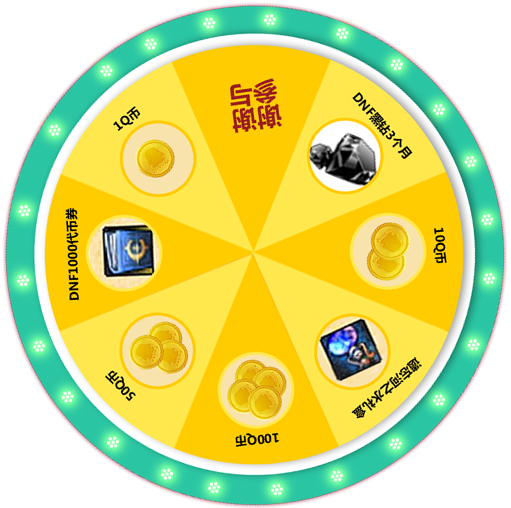
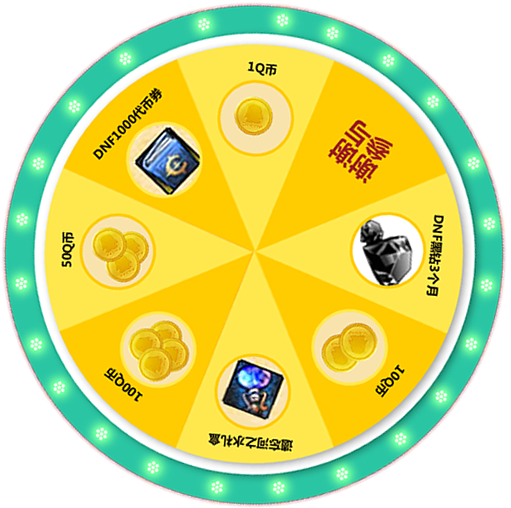
添加组件js，抽奖背景圆盘调整

diff --git a/20131219-0000-dnf抽奖/index_pub.html b/20131219-0000-dnf抽奖/index_pub.html
@@ -1,5 +1,6 @@
 <!-- author:wisteriawei -->
 <!-- date:20131219 -->
+<script type="text/javascript" src="http://st.icson.com/static_v1/js/app/component.js" charset="gb2312"></script>
 <style type="text/css">
 .page_event {width:100%;text-align:left;background:url({@img_0}) repeat #991E21;}
 .page_event .event_wrap {width:1050px;margin:0 auto;padding:0 5px;}
@@ -122,12 +123,10 @@ function _createSwf(src,w,h,wmod,swfid){
 }
 //lottery-list
 var _num = 0;
-if(G.app.old){
-  G.app.old.Lottery.getRecentAwardList("17626",_getAwardList);  
-}
+G.app.old.Lottery.getRecentAwardList("17626",_getAwardList); 
 var awardlist = ["谢谢你","DNF黑钻3个月","10Q币","遗忘河之水礼盒","100Q币","5Q币","DNF1000代币券","1Q币"];
 var addAwardList = [{"nick":"36**14","success_code":"8"},{"nick":"81**44","success_code":"7"},{"nick":"12**00","success_code":"4"},{"nick":"39**58","success_code":"6"},{"nick":"17**09","success_code":"6"},{"nick":"27**73","success_code":"7"},{"nick":"30**51","success_code":"7"},{"nick":"55**20","success_code":"4"},{"nick":"38**90","success_code":"6"}];
-var listNum = 11;
+var listNum = 12;
 function _getAwardList(info){
   //filter-data
   var arr = [];
